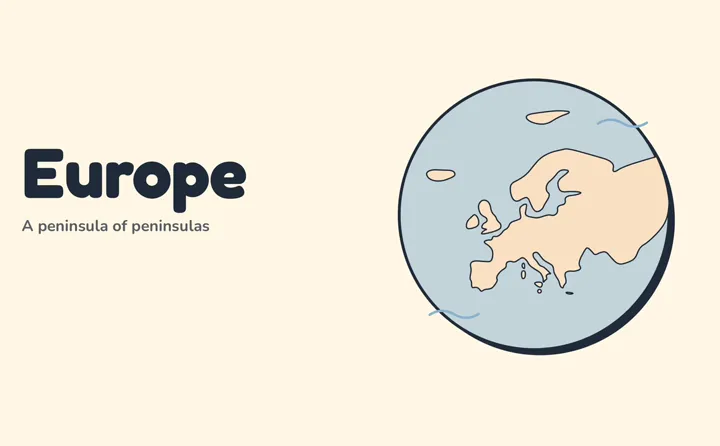
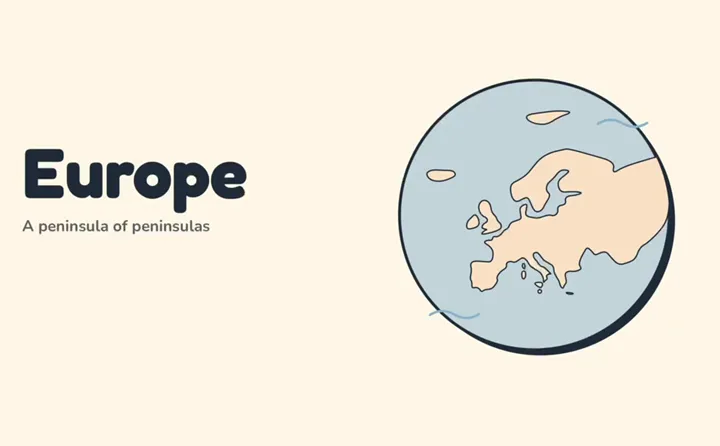
Europe card: new cover, no longer says "no audio"
Claude-Session: https://claude.ai/code/session_018EhJPoJraYHsQQnM3m2GZU

diff --git a/index.html b/index.html
@@ -127,7 +127,7 @@
       <img src="img/europa.webp" alt="Il titolo Europe accanto al globo con l'Europa" width="720" height="446">
       <div class="body">
         <h2>L'Europa, penisola di penisole</h2>
-        <p>Confini, penisole e grandi regioni d'Europa. In inglese, senza audio.</p>
+        <p>Confini, penisole e grandi regioni d'Europa. Video in inglese.</p>
         <div class="tags"><span>Geografia</span><span>In inglese</span><span>2:00</span></div>
         <span class="play watch">Guarda ▶</span>
       </div>
